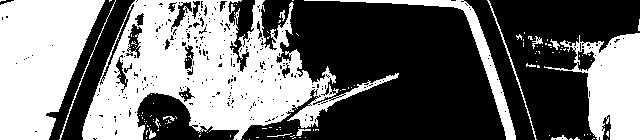
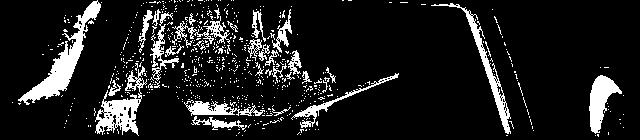
add remove shade

diff --git a/remove_shade.m b/remove_shade.m
@@ -1,0 +1,80 @@
+function [I_filtered] = remove_shade(I)
+% This function takes an image with shade and try to remove it before
+% segmentation
+
+% Basically, we consider the image as a product of illumination and
+% reflectance. Then we filter the illumination using a low-pass filter, 
+% while the reflectance with a high-pass filter. In the end we add those
+% filtered results.
+
+% Reference: https://stackoverflow.com/questions/24731810/segmenting-license-plate-characters
+% Remove some columns from the beginning and end
+% I = I(:,60:end-20);
+
+% Cast to double and do log.  We add with 1 to avoid log(0) error.
+I = im2double(I);
+I = log(1 + I);
+
+% Create Gaussian mask in frequency domain
+% We must specify our mask to be twice the size of the image to avoid
+% aliasing.
+M = 2*size(I,1) + 1;
+N = 2*size(I,2) + 1;
+sigma = 5;
+[X, Y] = meshgrid(1:N,1:M);
+centerX = ceil(N/2);
+centerY = ceil(M/2);
+gaussianNumerator = (X - centerX).^2 + (Y - centerY).^2;
+
+% Low pass and high pass filters
+Hlow = exp(-gaussianNumerator./(2*sigma.^2));
+Hhigh = 1 - Hlow;
+
+% Move origin of filters so that it's at the top left corner to match with
+% input image
+Hlow = ifftshift(Hlow);
+Hhigh = ifftshift(Hhigh);
+
+% Filter the image, and crop
+If = fft2(I, M, N);
+Ioutlow = real(ifft2(Hlow .* If));
+Iouthigh = real(ifft2(Hhigh .* If));
+
+% Set scaling factors then add
+gamma1 = 0.3;
+gamma2 = 1.5;
+Iout = gamma1*Ioutlow(1:size(I,1),1:size(I,2)) + ...
+       gamma2*Iouthigh(1:size(I,1),1:size(I,2));
+
+% Anti-log then rescale to [0,1]
+Ihmf = exp(Iout) - 1;
+Ihmf = (Ihmf - min(Ihmf(:))) / (max(Ihmf(:)) - min(Ihmf(:)));
+
+% Threshold the image - Anything below intensity 65 gets set to white
+Ithresh = Ihmf < 45/255;
+
+% Remove border pixels
+Iclear = imclearborder(Ithresh, 8);
+
+% Eliminate regions that have areas below 160 pixels
+Iopen = bwareaopen(Iclear, 160);
+
+% Show all of the results
+% figure;
+% subplot(4,1,1);
+% imshow(I);
+% title('Original Image');
+% subplot(4,1,2);
+% imshow(Ihmf);
+% title('Homomorphic Filtered Result');
+% subplot(4,1,3);
+% imshow(Ithresh);
+% title('Thresholded Result');
+% subplot(4,1,4);
+% imshow(Iopen);
+% title('Opened Result');
+
+I_filtered = Ithresh;
+
+end
+

diff --git a/extract_plate.m b/extract_plate.m
@@ -52,23 +52,23 @@ vertiHistThre = max(vertiHist)*0.25;
 horiCoordinate = [];
 vertiCoordinate = [];
 
-% flag = false;
-% y_startPt = 0; y_endPt = 0;
-% for i = 1:N
-%     if horiHist(i) > horiHistThre && flag == false
-%         y_startPt = i;
-%         flag = true;
-%     end
-%     
-%     if horiHist(i) <= horiHistThre && flag == true
-%         y_endPt = i-1;
-%         horiCoordinate = [horiCoordinate; y_startPt y_endPt];
-%         flag = false;
-%     end
-% end
-% 
-% y_diff = horiCoordinate(:, 2) - horiCoordinate(:, 1);
-% [mx, y_index] = max(y_diff);
+flag = false;
+y_startPt = 0; y_endPt = 0;
+for i = 1:N
+    if horiHist(i) > horiHistThre && flag == false
+        y_startPt = i;
+        flag = true;
+    end
+    
+    if horiHist(i) <= horiHistThre && flag == true
+        y_endPt = i-1;
+        horiCoordinate = [horiCoordinate; y_startPt y_endPt];
+        flag = false;
+    end
+end
+
+y_diff = horiCoordinate(:, 2) - horiCoordinate(:, 1);
+[mx, y_index] = max(y_diff);
 
 flag = false;
 x_startPt = 0; x_endPt = 0;
@@ -89,12 +89,14 @@ x_diff = vertiCoordinate(:, 2) - vertiCoordinate(:, 1);
 [my, x_index] = max(x_diff);
 
 % I_plate = I_BW(vertiCoordinate(x_index,1):vertiCoordinate(x_index,2), ...
-%     horiCoordinate(y_index, 1):horiCoordinate(y_index, 2));
+%      horiCoordinate(y_index, 1):horiCoordinate(y_index, 2));
 
 I_plate = I_BW(vertiCoordinate(x_index,1):vertiCoordinate(x_index,2), 1:N);
 
 x1 = vertiCoordinate(x_index,1);
 x2 = vertiCoordinate(x_index,2);
+% y1 = horiCoordinate(y_index, 1);
+% y2 = horiCoordinate(y_index, 2);
 y1 = 1;
 y2 = N;
 

diff --git a/crop_image.m b/crop_image.m
@@ -1,4 +1,5 @@
-clear all; clc;
+clear all;
+close all;
 
 %% EECS442 Final Project
 % Group Lamborghini
@@ -24,7 +25,7 @@ clear all; clc;
 %% Read images from folder
 origFiles = dir('dataset/*.jpg'); 
 numfiles = length(origFiles);
-numfiles = 12; %% When testing, choose first 12 images
+%numfiles = 12; %% When testing, choose first 12 images
 origImages = cell(1, numfiles);
 edgeImages = cell(1, numfiles);
 extractImages = cell(1, numfiles);
@@ -44,17 +45,22 @@ for k = 1:numfiles
     imwrite(test_image_BW, strcat('dataset_edge/', origFiles(k).name));
 end
 
-[~, threshold] = edge(test_image, 'sobel');
-fudgeFactor = .5;
-BWs = edge(test_image,'sobel', threshold * fudgeFactor);
+% [~, threshold] = edge(test_image, 'sobel');
+% fudgeFactor = .5;
+% BWs = edge(test_image,'sobel', threshold * fudgeFactor);
 % figure, imshow(BWs), title('binary gradient mask');
 
 %% determine license plate location by calculating vertical and horizontal histogram
 % implemented in extract_plate.m
+%numfiles = 3;
 for k = 1:numfiles
     [I_plate, x1, x2, y1, y2] = extract_plate(rgb2gray(origImages{k}));
+    %[I_plate, x1, x2, y1, y2] = extract_plate(edgeImages{k});
+    % remove shade from the extracted plate
     I_gray = rgb2gray(origImages{k}(x1:x2, y1:y2, :));
-    I_extract = imcomplement(imbinarize(I_gray));
+    I_filtered = remove_shade(origImages{k}(x1:x2, y1:y2, :));
+    I_extract = I_filtered;
+    %I_extract = imcomplement(imbinarize(I_filtered));
     extractImages{k} = I_extract;
     imwrite(I_extract, strcat('dataset_extracted_plate/', origFiles(k).name));
 end
